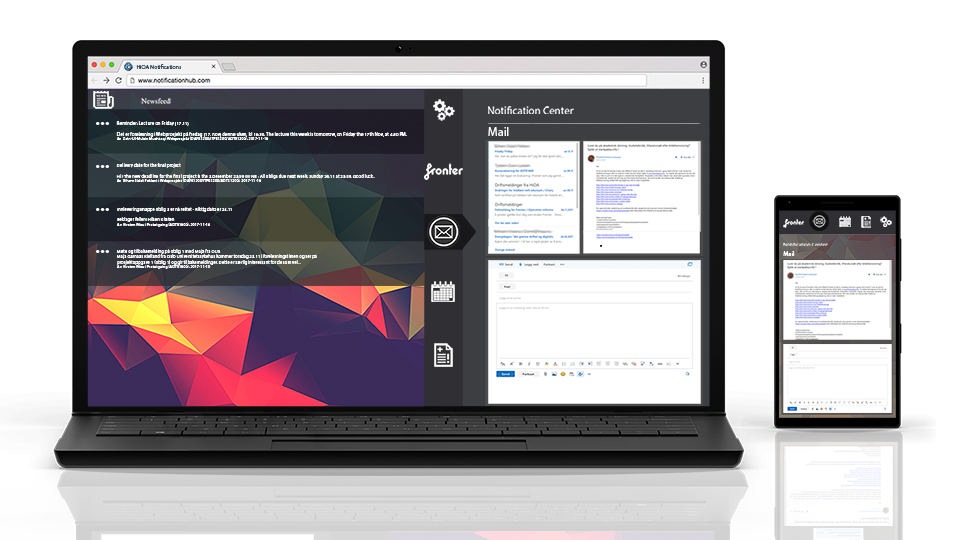
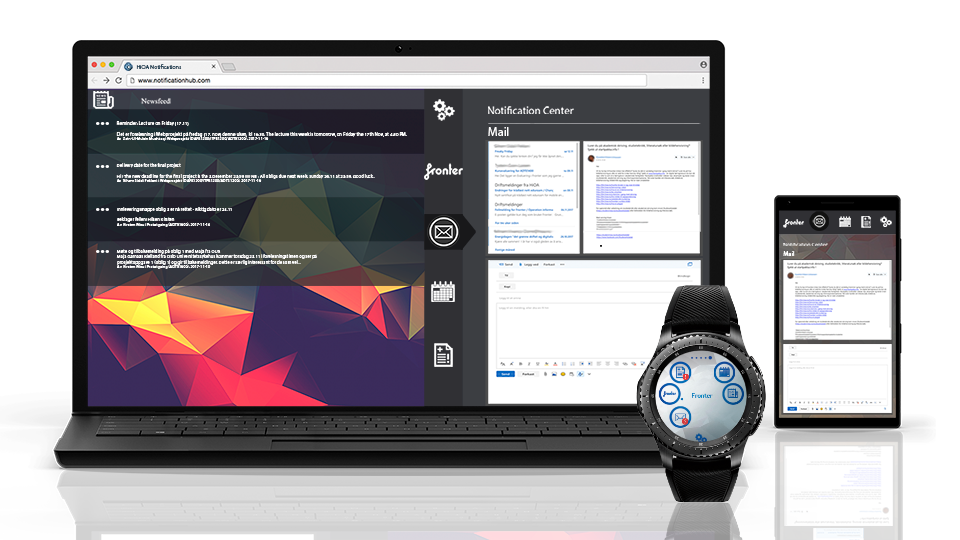
Git gud, nytt avsnitt (wearebles)

Changed region(s): [[0.6562, 0.5037, 0.8125, 1.0]]

diff --git a/page/en/solution.html b/page/en/solution.html
@@ -84,10 +84,10 @@
                                 Accessible to all users 
                             </h2>
                             <p>
-                                The interface is universally designed for all users on both computer and mobile. In addition to the website, the solution will also be available as an app for mobile and smartwatches. This is not just because the interface is simple and responsive, but also because options for high contrast and bigger text give access to users with visual handicaps. A language option will also be present for users of different nationalities. If you use a screen reader, then it will read the text in a sensible order and explain images as well.
+                                Studenthub’s interface is universally designed for all users for both computer and mobile devices. Studenthub is not only available as a website but also as an application, this makes it possible to work with wearable devices such as smart watches.
                             </p>
                             <p>
-                                These configurations allow equal access to all students, making sure none are unprivileged using the website. 
+                                To make Studenthub truly universal we have implemented an interface which is not only responsive and works on different devices and screens, but is also built up to be easy to use for people with handicaps. As such we have implemented high contrast, and the ability to magnify the text on the website.
                             </p>
                         </div>
                         <img class="article-w-userimg article-w-userimg-right" src="..\..\res\img\Olav.png" alt="A image of a user" />                            
@@ -107,6 +107,19 @@
                             </p>
                         </div>
                         <img class="article-w-userimg"  src="..\..\res\img\Alex.png" alt="A image of a user" />
+                    </div>
+                    <div class="article-w wImage" style="/*background-color: purple;*/" >
+                        
+                        <div class="article-w-image-right">
+                            <h2 style="font-weight: lighter;">Wearebles</h2>
+                            <p>
+                                Today more and more students are using new devices sutch as smartwatches to keep track of their information. With Studenthub on your wrist you will be able to check your new notifications and newsfeed on the go.
+                            </p>
+                            <p>
+                                Students living an active lifestyle can still keep track of their progress and notifications even without being near a computer or smartphone. So even if you tend to forget your smartphone or computer, you will never miss out on important informaiton.
+                            </p>
+                        </div>
+                        <img src="..\..\res\img\SmartWatch_art.png" style="height: 200px; width: 200px; margin-top: auto; margin-bottom: auto; /*background-color: yellow;*/" alt="A illustration of the user interface on a wearable device" />
                     </div>
                 </div>
             </div>
